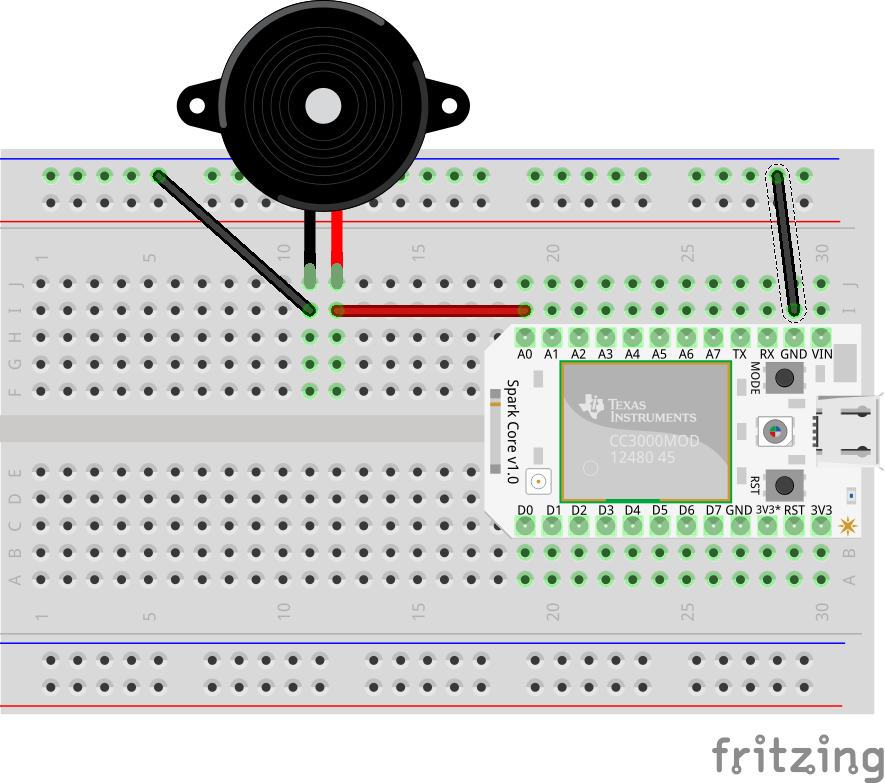
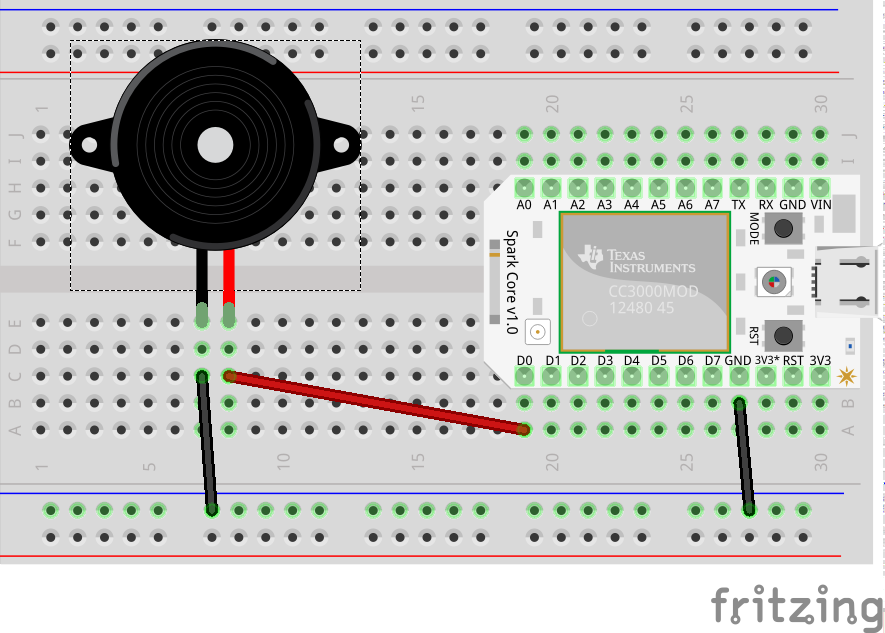
Section 6 Errors and Errata

diff --git a/6-controlling-outputs/motors.md b/6-controlling-outputs/motors.md
@@ -12,9 +12,9 @@ There are three main types of motor and they each work a little differently.
 
 * **DC Motors (bottom left):** Spin continuously. The only component of movement that you can control is the speed. We use [PWM]({{site.baseurl}}/2-leds-continued/pwm) to adjust the speed of movement and wire to a PWM pin
 
-* **Servos (upper left):** Servos motors can be positioned exactly. We can tell the stepper where we want it to move to. Typically we use a *Library* to hide all the complexity of these operations, and the library will let you choose a range in angles to set the position of the servo. This is normally from 0 to 180 degrees
+* **Servos (upper left):** Servos motors can be positioned exactly. We can tell the servo where we want it to move to. Typically we use a *Library* to hide all the complexity of these operations, and the library will let you choose a range in angles to set the position of the servo. This is normally from 0 to 180 degrees
 
-* **Steppers (upper right)**: Servos are moved in increments. Fluctuations the power sends a signal to the motor to move a tiny amount. You can’t position it exactly (i.e. move to 173 degrees) but unlike servos you can continuously rotate a stepper (go around and around). Some steppers can move backwards and forwards. 
+* **Steppers (upper right)**: Steppers are moved in increments. Fluctuations the power sends a signal to the motor to move a tiny amount. You can’t position it exactly (i.e. move to 173 degrees) but unlike servos you can continuously rotate a stepper (go around and around). Some steppers can move backwards and forwards too. 
 
 Motors come in various shapes and sizes. Some motors will require higher power but they can do more - they have more torque (or can apply more force) to lift heavy objects etc. When using motors be sure to check the power requirements. 
 

diff --git a/6-controlling-outputs/piezo.md b/6-controlling-outputs/piezo.md
@@ -27,7 +27,7 @@ You will need
 
 ## Wiring a piezo 
 
-Is super easy. One of the terminals goes to ground and the other goes to a [PWM pin]({{site.baseurl}}/2-leds-continued/pwm), in this case <code>A0</code>
+Is super easy. One of the terminals goes to ground and the other goes to a [PWM pin]({{site.baseurl}}/2-leds-continued/pwm), in this case <code>D0</code>
 
 The circuit, wiring and components should look like this
 
@@ -59,7 +59,7 @@ Now let’s put this into practice with the circuit above…
 Define the variables to use for the servo. Notice that we have created a slightly different kind of varaible. This is an array. It’s kind of like a shelf of variables. You can put a set of connected values into each of the shelfs, referencing them by a number. 
 
 ````
-int speakerPin = A0;
+int speakerPin = D0;
 
 // create an array for the notes in the melody:
 //C4,G3,G3,A3,G3,0,B3,C4

diff --git a/6-controlling-outputs/servo.md b/6-controlling-outputs/servo.md
@@ -148,7 +148,7 @@ void setup() {
    Particle.function("servo", servoControl);
 
   // Keep a cloud variable for the current position
-  Particle.variable(  "servoPosition" , &servoPos , INT );
+  Particle.variable(  "servoPos" , &servoPos , INT );
 
 
 }
